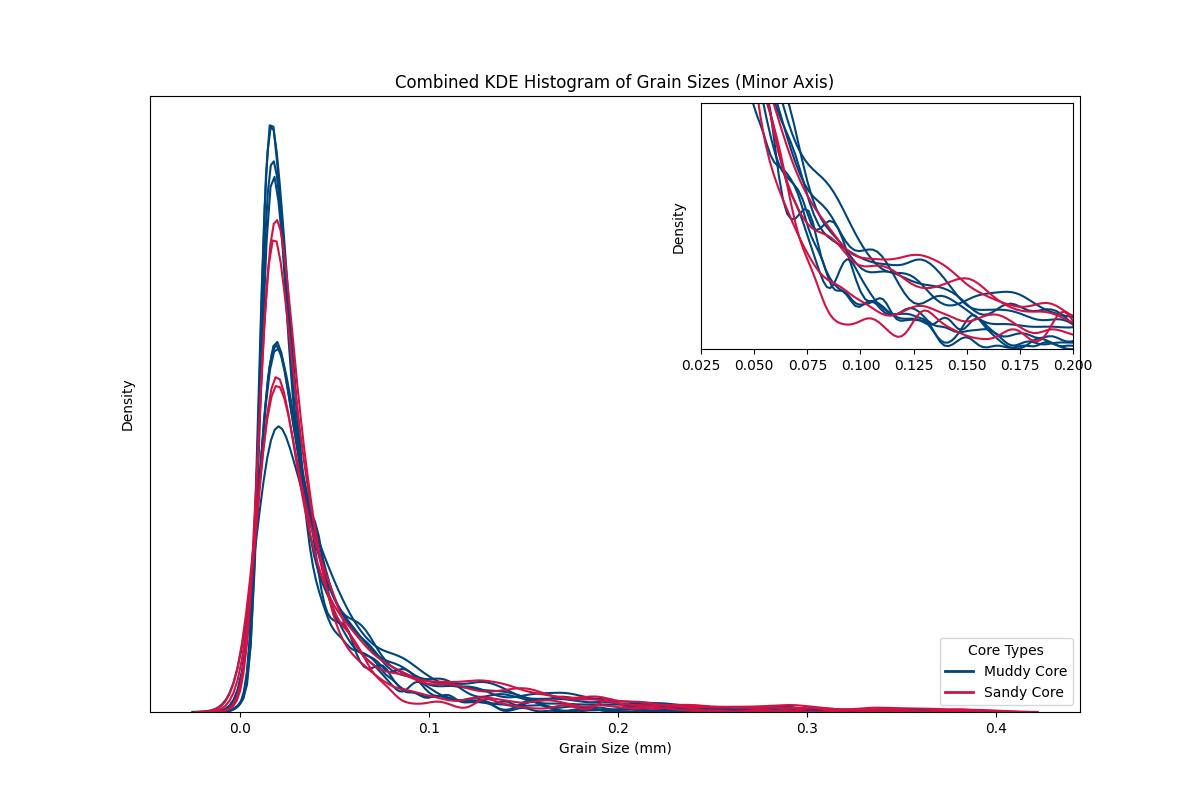
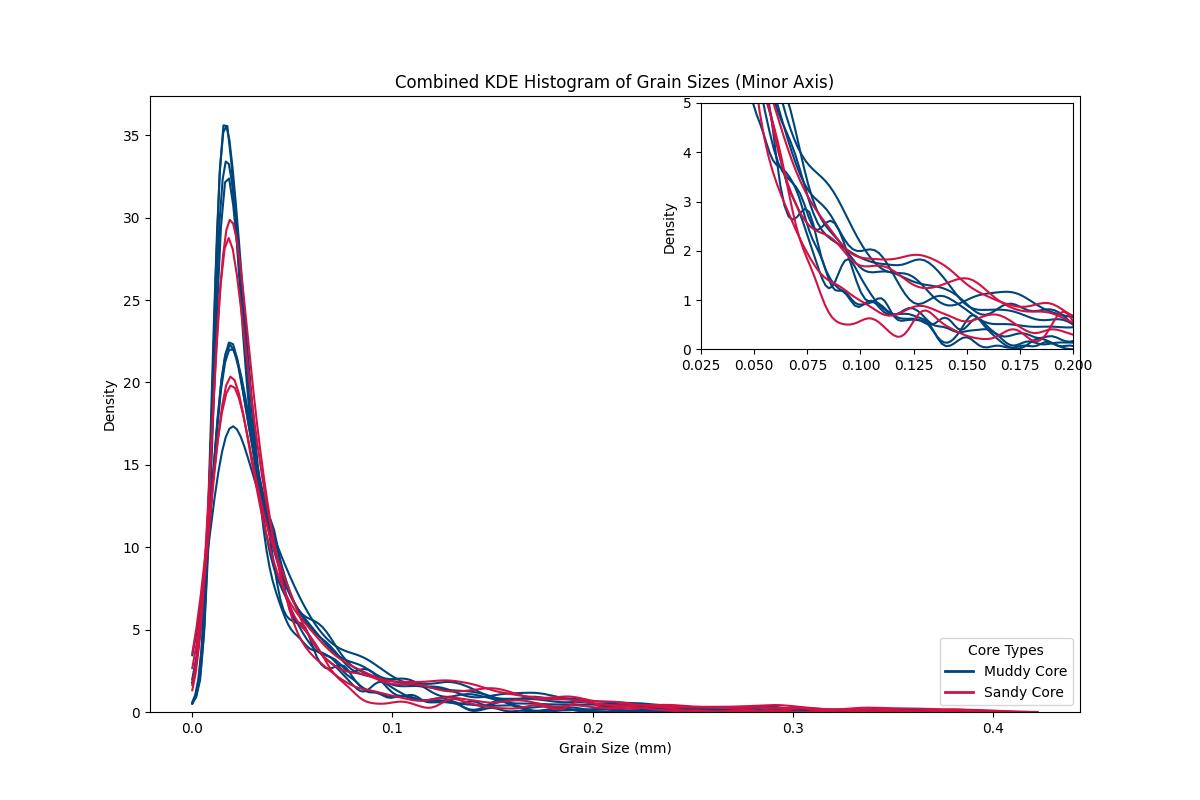
q

diff --git a/final.py b/final.py
@@ -143,42 +143,52 @@ for filename in os.listdir(input_dir):
 
 plt.figure(figsize=(12, 8))
 
-# Main KDE plot
+# Compute histogram bin counts for scaling
+all_data = np.concatenate([np.array(grain_lengths) for grain_lengths, _, _, _ in all_grain_lengths])  
+hist_counts, bin_edges = np.histogram(all_data, bins=50)
+max_hist_count = hist_counts.max()
+
+# Main KDE plot (scaled to histogram height)
 for grain_lengths, color, filename, core_type in all_grain_lengths:
-    sns.kdeplot(grain_lengths, color=color, bw_adjust=0.5)  # Adjust bandwidth
+    grain_lengths = np.array(grain_lengths)  # Convert to NumPy array
+    grain_series = pd.Series(grain_lengths)  # Convert to Pandas Series
+
+    sns.kdeplot(grain_series, color=color, bw_adjust=0.5, clip=(0.00, None), 
+                common_norm=False, stat="count")  # Ensure KDE matches histogram scaling
 
 plt.title("Combined KDE Histogram of Grain Sizes (Minor Axis)")
 plt.xlabel("Grain Size (mm)")
-plt.ylabel("Density")
+plt.ylabel("Frequency")  # Change label from "Density" to "Frequency"
 
 # Add legend for core types and move it to the bottom-right corner
 handles = [
     plt.Line2D([0], [0], color='#00447c', lw=2, label='Muddy Core'),
     plt.Line2D([0], [0], color='#d31145', lw=2, label='Sandy Core')
 ]
-plt.legend(handles=handles, title="Core Types", loc="lower right")  # Set legend to the bottom-right corner
+plt.legend(handles=handles, title="Core Types", loc="lower right")
 
-# Remove gridlines and markers from Y-axis
-plt.gca().yaxis.set_ticks_position('none')  # Remove Y-axis ticks
-plt.gca().yaxis.set_ticklabels([])  # Remove Y-axis tick labels
-plt.gca().grid(False)  # Remove all gridlines
+# Keep gridlines off but restore y-axis ticks and labels
+plt.gca().grid(False)
 
 # Create zoomed-in inset
 ax_main = plt.gca()
-ax_inset = inset_axes(ax_main, width="40%", height="40%", loc="upper right")  # Inset size and location
-ax_inset.set_xlim(0.025, 0.2)  # Zoomed-in range for x-axis
+ax_inset = inset_axes(ax_main, width="40%", height="40%", loc="upper right")
+ax_inset.set_xlim(0.025, 0.2)
 
-# Add the KDE plots to the inset
+# Add the KDE plots to the inset, also scaled to histogram heights
 for grain_lengths, color, filename, core_type in all_grain_lengths:
-    sns.kdeplot(grain_lengths, color=color, bw_adjust=0.5, ax=ax_inset)
+    grain_lengths = np.array(grain_lengths)
+    grain_series = pd.Series(grain_lengths)
 
-# Remove gridlines and markers from Y-axis in the inset
-ax_inset.yaxis.set_ticks_position('none')  # Remove Y-axis ticks
-ax_inset.yaxis.set_ticklabels([])  # Remove Y-axis tick labels
-ax_inset.grid(False)  # Remove all gridlines
-ax_inset.set_ylim(0, 5)
+    sns.kdeplot(grain_series, color=color, bw_adjust=0.5, ax=ax_inset, clip=(0.00, None), 
+                common_norm=False, stat="count")
+
+# Restore y-axis ticks and labels in the inset
+ax_inset.grid(False)
+ax_inset.set_ylim(0, max_hist_count)
 
 # Save combined histogram
 combined_histogram_path = os.path.join(output_dir, "combined-histogram.jpg")
 plt.savefig(combined_histogram_path)
 plt.close()
+
